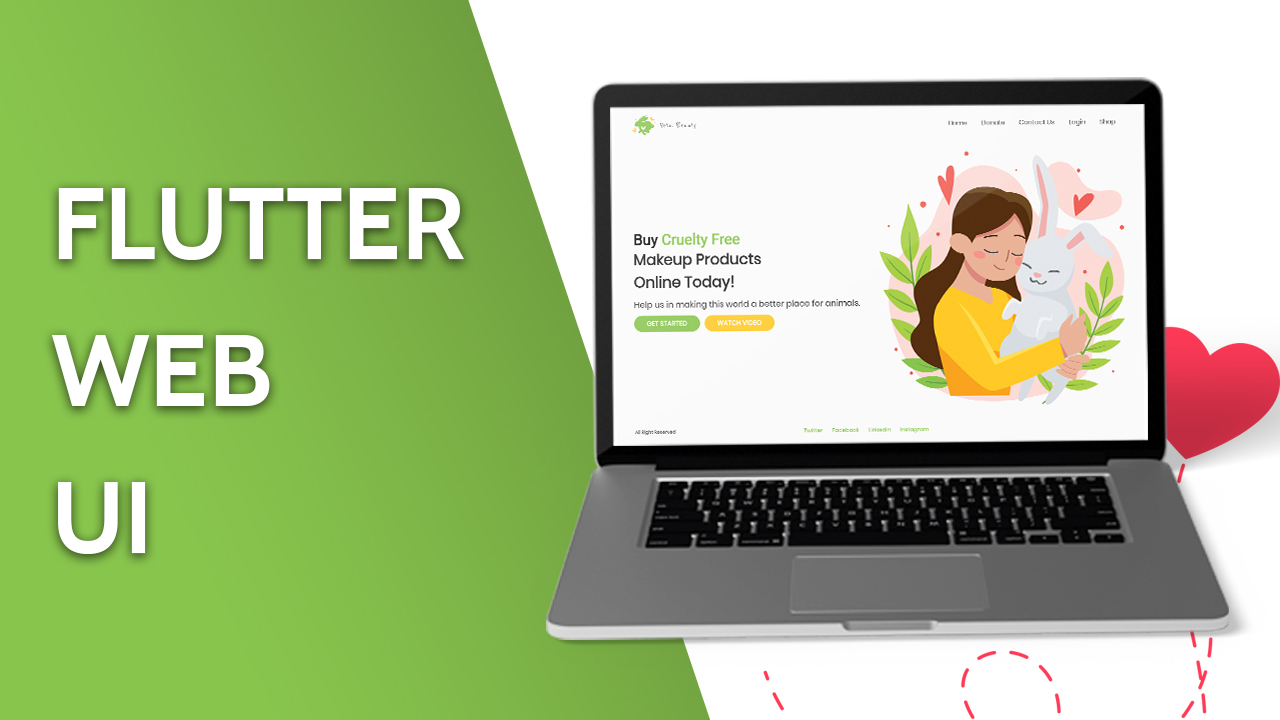
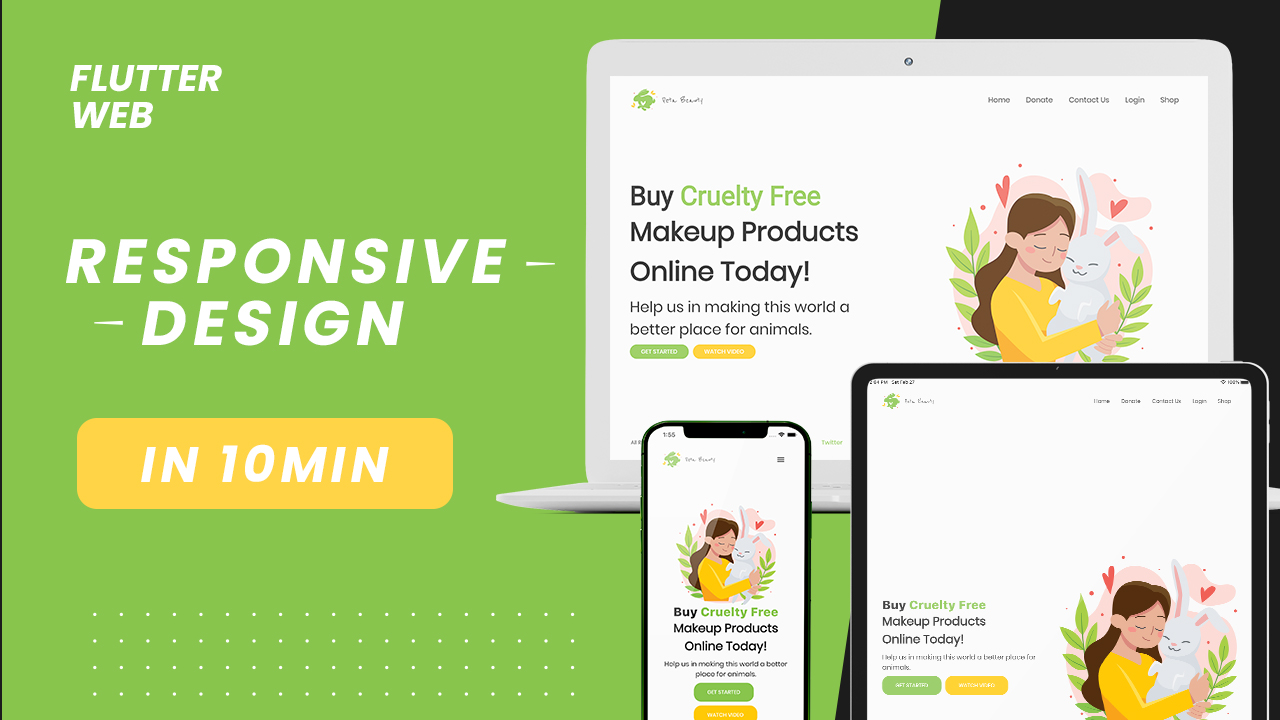
readme updated

diff --git a/README.md b/README.md
@@ -1,9 +1,9 @@
 # Flutter Web Landing Page UI
 
-## This is not Fully Responsive yet
-## [Watch it on YouTube](https://youtu.be/PM-ASOgxBn8)
+## This is the Responsive version of [This Landing Page](https://github.com/gihan667/flutter-web-landing-page)
+## [Watch it on YouTube](https://youtu.be/hntFZd5bddU)
 
-Let's create awesome landing page using flutter, first of all you need to enable flutter web support by following below link.
+Let's create awesome fully responsive landing page using flutter, first of all you need to enable flutter web support by following below link. We use Flutter MediaQuery to make this UI Responsive on Mobile, Tab & Desktops.
 
 #### [Enable Flutter Web Support](https://flutter.dev/docs/get-started/web)
 
